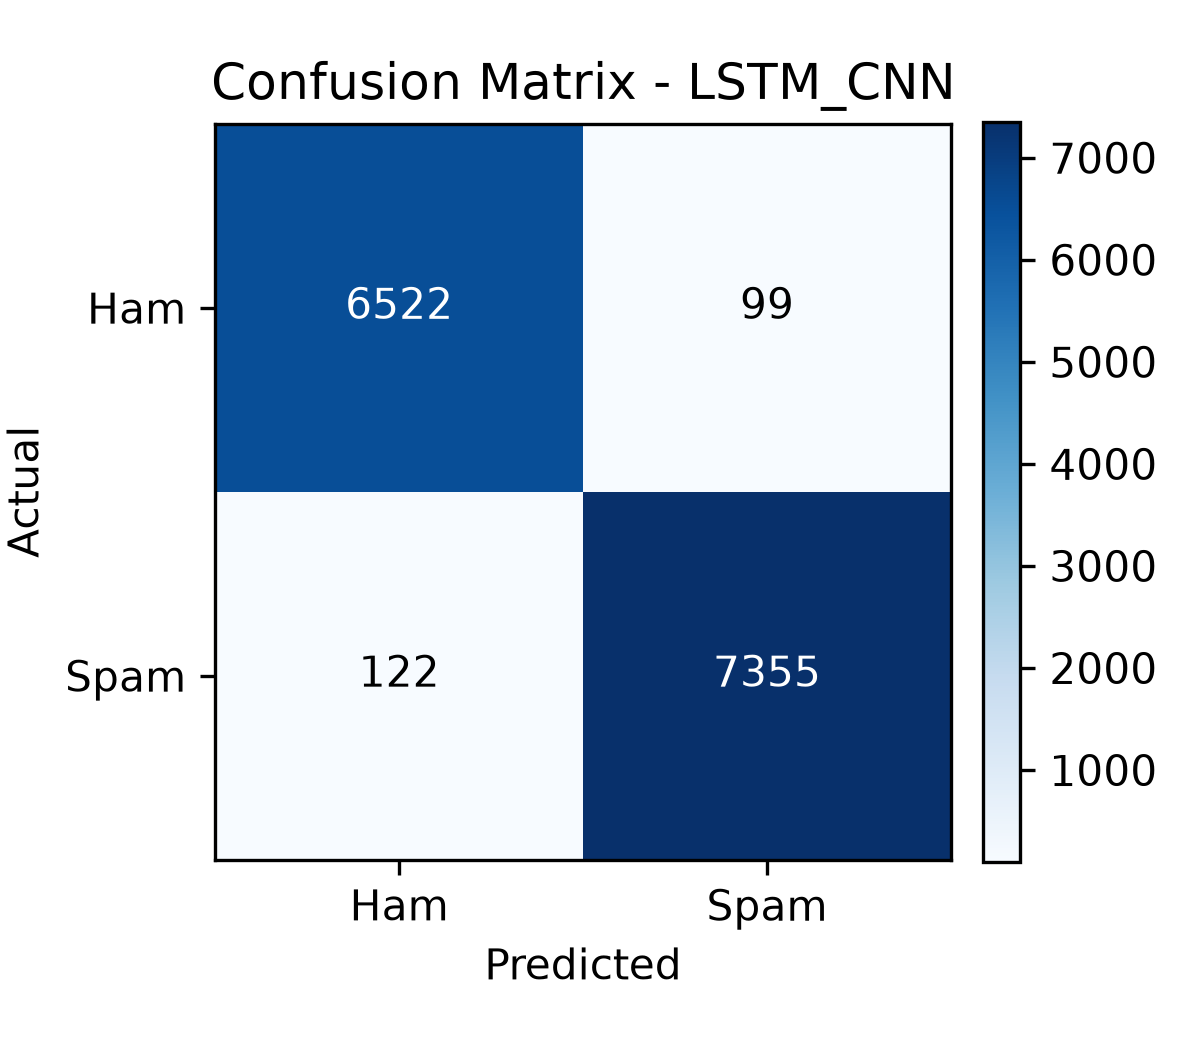
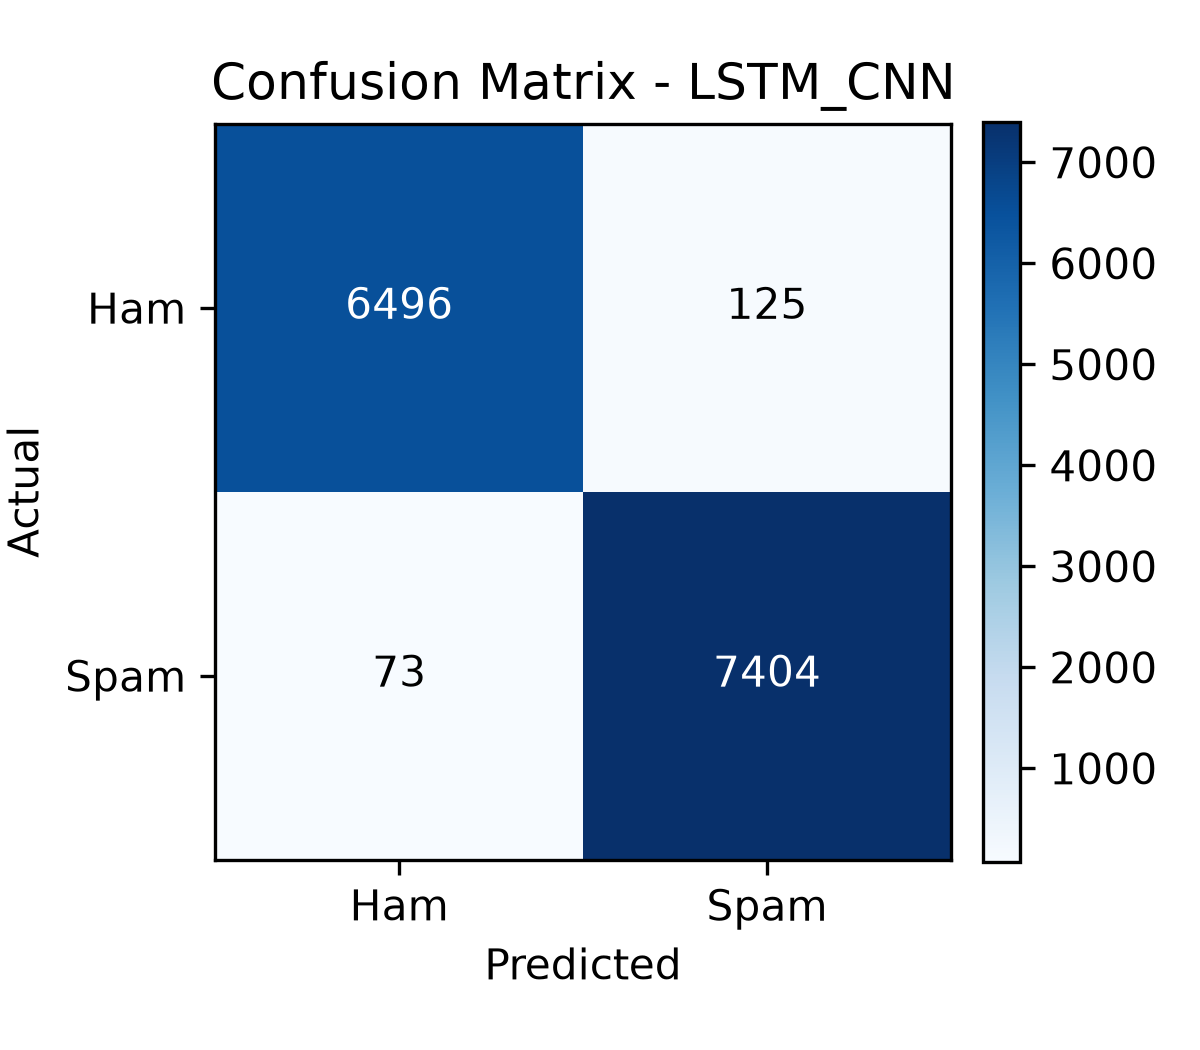
sorryyyy this is after parameter configgg

diff --git a/src/models/lstm_cnn.py b/src/models/lstm_cnn.py
@@ -36,7 +36,7 @@ X_test_text = X_test["Message"]
 
 # Tokenization
 vocab_size = 10000
-max_length = 200
+max_length = 150
 tokenizer = TextVectorization(
     max_tokens=vocab_size,
     output_mode="int",
@@ -50,17 +50,17 @@ X_test_pad = tokenizer(np.array(X_test_text)).numpy()
 model = Sequential()
 
 # 1. Embedding layer: converts integer sequences into dense word vectors
-model.add(Embedding(input_dim=vocab_size, output_dim=128))
+model.add(Embedding(input_dim=vocab_size, output_dim=64))
 
 # 2. CNN layers: extract local features (e.g. spammy n-grams or keyword combos)
-model.add(Conv1D(filters=64, kernel_size=5, activation="relu"))
+model.add(Conv1D(filters=256, kernel_size=5, activation="relu"))
 model.add(MaxPooling1D(pool_size=4))
 
 # 3. LSTM layer: learns long-term sequential dependencies from the CNN's feature maps
-model.add(LSTM(128, dropout=0.2, recurrent_dropout=0.2))
+model.add(LSTM(64, dropout=0.0, recurrent_dropout=0.0))
 
 # 4. Dense/classification layers
-model.add(Dense(64, activation="relu"))
+model.add(Dense(32, activation="relu"))
 model.add(Dropout(0.5))
 model.add(Dense(1, activation="sigmoid"))
 
@@ -74,7 +74,7 @@ model.fit(
     X_train_pad,
     y_train,
     epochs=10,
-    batch_size=32,
+    batch_size=64,
     validation_split=0.2,
     callbacks=[early_stop],
 )
